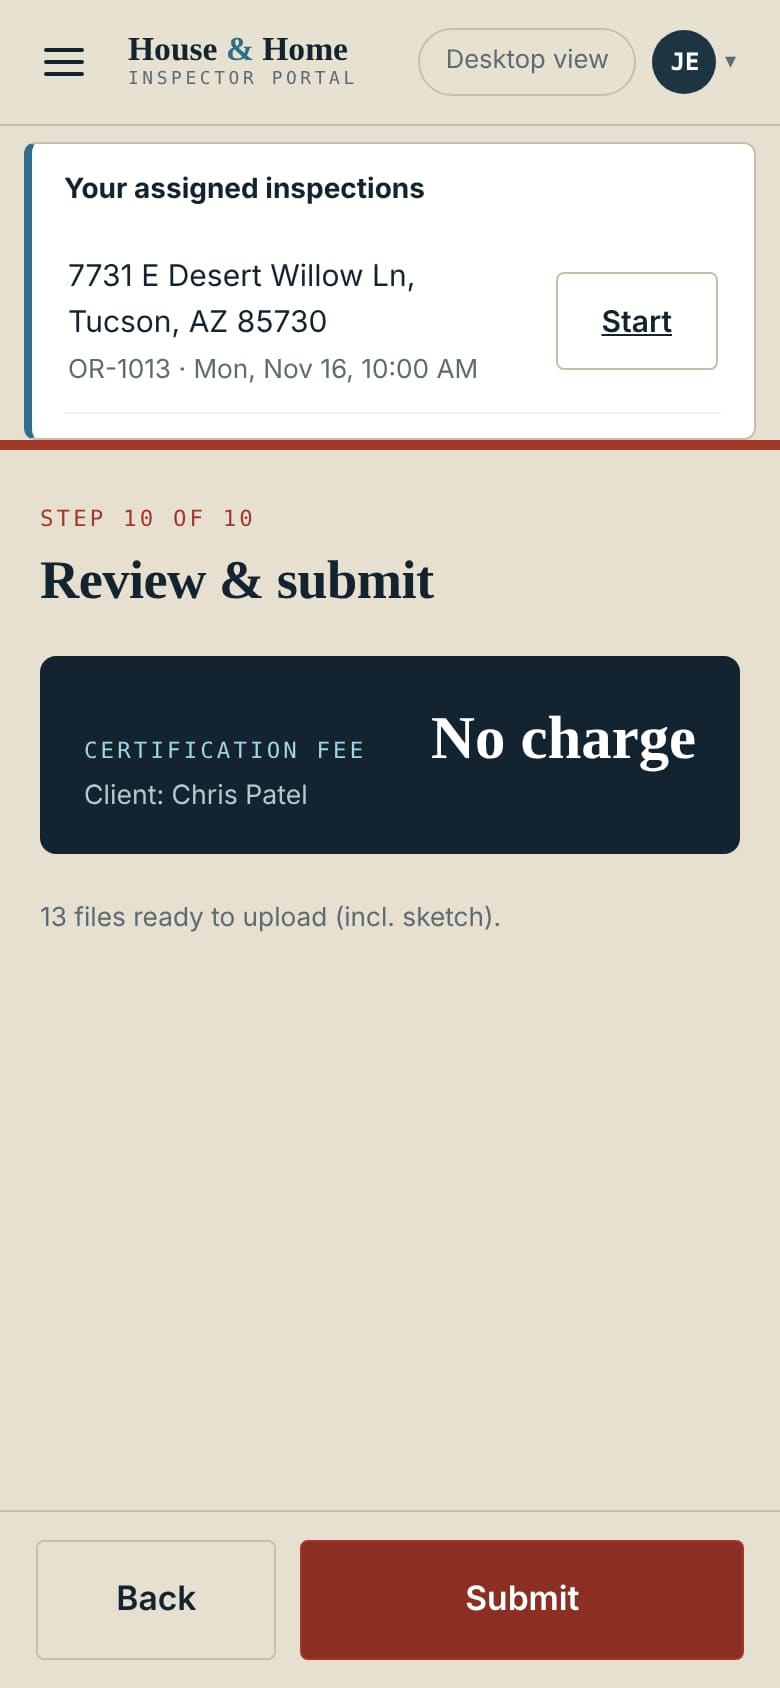
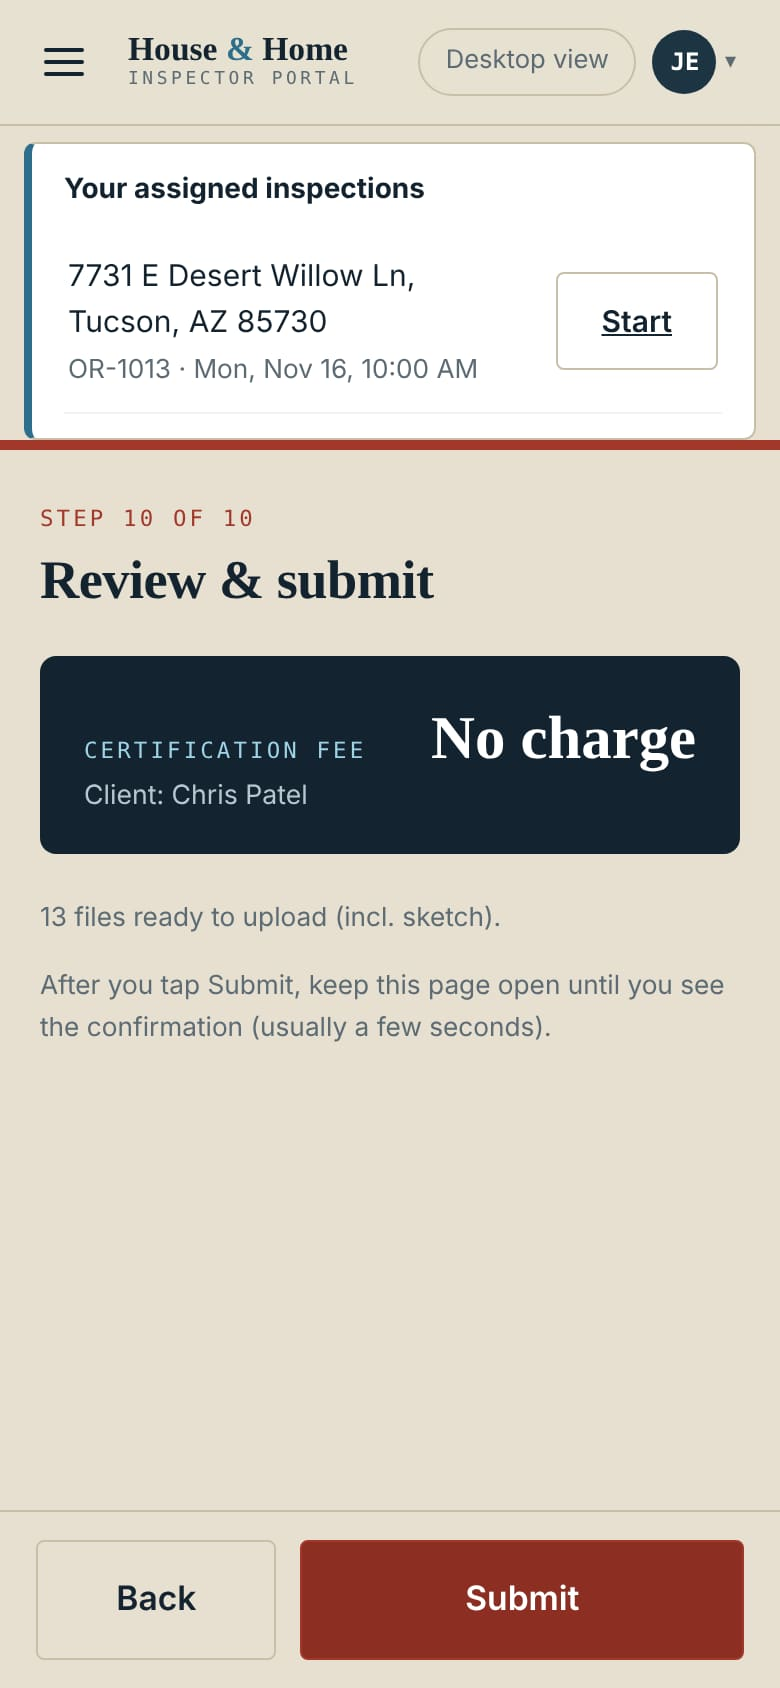
Bundle: owner-first invites, fresh Help screenshots, old website-import code removed
- People → Invite: picking a company with no owner yet (or + New company)
  switches the role to Company owner, with a note; choosing Inspector shows
  a 'Make them the owner' nudge.
- Help: new screenshots of the sketch step, Review & submit and the admin
  menu; guide text for the sketch link, Practice job (demo) and owner-first
  invites.
- Removed the unused Gravity Forms import (lib/gravity.js, /api/orders/intake,
  /api/admin/orders/test, website sync button and API, ?form=&entry= on the
  thank-you page). The portal's own request form is unchanged.
- /api/health: drops the old GF_* checks; reports Stripe 'live' for
  restricted live keys (rk_live_) too.

Claude-Session: https://claude.ai/code/session_018NSqrGUwkjsmCNh4wUKBuk

Changed region(s): [[0.0615, 0.5545, 0.7077, 0.6161], [0.8923, 0.5545, 0.9231, 0.5853], [0.7692, 0.5545, 0.8, 0.5853]]

diff --git a/app/admin/people/page.js b/app/admin/people/page.js
@@ -26,6 +26,20 @@ export default function People() {
     fetch("/api/admin/people").then((r) => r.json()).then(apply).catch((e) => setErr(String(e)));
   }, []);
 
+  // A company with no active owner yet (or a brand-new one): the first person is usually its owner.
+  const needsOwner = (companyId) => {
+    if (companyId === "__new") return true;
+    const c = companies.find((x) => x.id === companyId);
+    if (!c || c.is_internal) return false;
+    return !(people || []).some((p) => p.company_id === companyId && p.role === "company_owner" && p.active);
+  };
+  const [roleTouched, setRoleTouched] = useState(false);
+  function pickCompany(e) {
+    const companyId = e.target.value;
+    setForm((f) => ({ ...f, companyId, ...(!roleTouched && needsOwner(companyId) ? { role: "company_owner" } : {}) }));
+  }
+  const ownerHint = !STAFF.includes(form.role) && form.companyId && needsOwner(form.companyId);
+
   async function invite(e) {
     e.preventDefault();
     setBusy(true); setMsg(""); setErr("");
@@ -37,7 +51,7 @@ export default function People() {
     if (apply(d)) {
       setMsg(d.emailed ? `Invited ${form.email} and sent them a welcome email.`
         : `Added ${form.email}. The welcome email didn't send, so tell them to sign in at this portal with their email.`);
-      setForm(BLANK);
+      setForm(BLANK); setRoleTouched(false);
     }
   }
 
@@ -66,14 +80,14 @@ export default function People() {
               <div className="field"><label htmlFor="fullName">Full name</label>
                 <input id="fullName" value={form.fullName} onChange={set("fullName")} /></div>
               <div className="field"><label htmlFor="role">Role</label>
-                <select id="role" value={form.role} onChange={set("role")}>
+                <select id="role" value={form.role} onChange={(e) => { setRoleTouched(true); set("role")(e); }}>
                   <option value="inspector">Inspector</option>
                   <option value="company_owner">Company owner</option>
                   <option value="engineer">Engineer (reviews and certifies jobs)</option>
                   <option value="admin">Admin (House &amp; Home staff)</option>
                 </select></div>
               <div className="field"><label htmlFor="companyId" className={STAFF.includes(form.role) ? "" : "req"}>Company</label>
-                <select id="companyId" value={form.companyId} onChange={set("companyId")}>
+                <select id="companyId" value={form.companyId} onChange={pickCompany}>
                   <option value="">{STAFF.includes(form.role) ? "None" : "Choose a company"}</option>
                   {companies.map((c) => <option key={c.id} value={c.id}>{c.name}{c.is_internal ? " (House & Home)" : ""}</option>)}
                   <option value="__new">+ New company…</option>
@@ -83,6 +97,10 @@ export default function People() {
                   <input id="newCompany" value={form.newCompany} onChange={set("newCompany")} placeholder="e.g. StarCrest Inspections" /></div>
               )}
             </div>
+            {ownerHint && (form.role === "company_owner"
+              ? <p className="hint" style={{ marginTop: 0 }}>This company has no owner yet, so they'll be its <b>owner</b>: they set up billing and invite their own inspectors. They can still submit jobs themselves.</p>
+              : <p className="warnbox" style={{ marginTop: 0 }}>This company has no owner yet. The first person is usually the owner (sets up billing, invites the team, and can still inspect).{" "}
+                  <button type="button" className="linklike" onClick={() => setForm((f) => ({ ...f, role: "company_owner" }))}>Make them the owner</button></p>)}
             {err && <p className="err">{err}</p>}
             {msg && <p className="ok-msg">{msg}</p>}
             <button className="btn" type="submit" disabled={busy}>{busy ? "Inviting…" : "Send invite"}</button>

diff --git a/lib/helpGuides.js b/lib/helpGuides.js
@@ -36,7 +36,7 @@ export const GUIDES = [
           "Tap + Add structure for porches, decks, steps, carports and additions, then pick the size and which side it's on.",
           "To mark the drawing, tap a letter (B for beam, P for pier and so on), then tap the drawing everywhere it goes. Each tap drops another one. Tap a different letter to switch, Done when you're finished. Drag any tag to move it.",
           "Tap Save sketch. It's added to the report with the measurements and the letter key."],
-        tips: ["Prefer paper? Upload a photo of your hand drawing on the same step instead."],
+        tips: ["Prefer paper? Tap \"Prefer paper? Upload a photo of a hand drawing instead\" under the Draw button."],
         shots: [s("i-step8", "Home sketch step", true), s("i-sketch", "Sketch editor", true), s("i-sketch-tags", "Placing letter tags on the sketch", true)] },
       { title: "Add your photos",
         text: ["All 12 photo sections are on one page: scroll down and tap Add photos in each section. Add as many as you need; skip any that don't apply. The count at the top shows how many sections have photos.",
@@ -81,7 +81,8 @@ export const GUIDES = [
     intro: "Take in requests, schedule and assign inspectors, manage people and companies, and keep an eye on jobs and money.",
     steps: [
       { title: "The menu",
-        text: ["☰ (top left) has everything: Orders, Review queue, Submit a job, People, Statements, Reports, Companies, Engineers, Google & email and Help.",
+        text: ["☰ (top left) has everything: Orders, Review queue, Submit a job, Practice job (demo), People, Statements, Reports, Companies, Engineers, Google & email and Help.",
+          "Practice job (demo) opens the form with a Fill sample data button: try anything without charging anyone or emailing clients. Demo jobs are saved separately under _Demo Submissions.",
           "Your initials (top right) open View as: see the portal exactly as an inspector, owner or engineer would. Changes are turned off while previewing; tap Switch back when you're done."],
         shots: [s("a-menu", "Admin menu")] },
       { title: "Inspection requests come in",
@@ -96,7 +97,8 @@ export const GUIDES = [
         text: ["☰ → Review queue shows submitted jobs waiting for the engineer (Needs review / Under review), plus Certified and Delivered tabs. It refreshes every 15 minutes, or tap Refresh. Warnings about the engineer's license or stamp show at the top."],
         shots: [s("a-queue", "Review queue")] },
       { title: "People",
-        text: ["☰ → People: invite anyone (pick their role and company), change roles, or deactivate someone. Inspectors submit jobs; company owners also see their company's jobs and billing; engineers review and certify; admins see everything."],
+        text: ["☰ → People: invite anyone (pick their role and company), change roles, or deactivate someone. Inspectors submit jobs; company owners also see their company's jobs and billing; engineers review and certify; admins see everything.",
+          "Inviting the first person at a new company? The role switches to Company owner, since the owner sets up billing and invites the team (and can still inspect). Change it if they're only an inspector."],
         shots: [s("a-people", "People page")] },
       { title: "Companies and prices",
         text: ["☰ → Companies sets the default price for everyone. Open a company to: edit its name and details, upload its logo, set a custom price, choose how it pays (saved bank/card, or pay by card for each job), invite people straight into it, turn it off, and see its jobs, charges and statements."],

diff --git a/lib/orders.js b/lib/orders.js
@@ -1,55 +1,6 @@
-import { getEntry, recentEntries, mapEntry, allowedForms, gfEnabled } from "./gravity";
 import { sendEmail } from "./email";
 
 function esc(s) { return String(s || "").replace(/&/g, "&amp;").replace(/</g, "&lt;").replace(/>/g, "&gt;"); }
-
-// Create (or return) the order for one Gravity Forms entry. Safe to call repeatedly.
-export async function importEntry(db, formId, entryId, { origin, notify = true } = {}) {
-  formId = Number(formId); entryId = Number(entryId);
-  if (!allowedForms().includes(formId)) throw new Error("That form isn't connected to the portal.");
-  const { data: existing } = await db.from("orders").select("ref, id").eq("source_form_id", formId).eq("source_entry_id", entryId).maybeSingle();
-  if (existing) return { ...existing, created: false };
-
-  const entry = await getEntry(entryId);
-  if (Number(entry.form_id) !== formId) throw new Error("Entry doesn't belong to that form.");
-  return createOrderFromEntry(db, entry, { origin, notify });
-}
-
-// Create (or return) the order for an entry we already have (sent by the website, or fetched).
-export async function createOrderFromEntry(db, entry, { origin, notify = true } = {}) {
-  const formId = Number(entry.form_id), entryId = Number(entry.id);
-  const { data: existing } = await db.from("orders").select("ref, id").eq("source_form_id", formId).eq("source_entry_id", entryId).maybeSingle();
-  if (existing) return { ...existing, created: false };
-  const row = mapEntry(entry);
-  const { data, error } = await db.from("orders").insert(row).select("id, ref, property_address, inspection_detail, requester").single();
-  if (error) {
-    if (/duplicate|unique/i.test(error.message)) {
-      const { data: again } = await db.from("orders").select("ref, id").eq("source_form_id", formId).eq("source_entry_id", entryId).single();
-      return { ...again, created: false };
-    }
-    throw error;
-  }
-  if (notify) await alertOrder(db, data, origin).catch((e) => console.error("order alert failed", e.message));
-  return { ...data, created: true };
-}
-
-// Pull recent entries from every connected form (catches any whose redirect never happened).
-export async function syncOrders(db, { origin } = {}) {
-  if (!gfEnabled()) throw new Error("Gravity Forms isn't connected yet.");
-  let created = 0, seen = 0, skipped = 0;
-  const forms = allowedForms();
-  if (!forms.length) throw new Error("No forms are connected (GF_FORM_IDS is empty).");
-  for (const formId of forms) {
-    const entries = await recentEntries(formId, 25);
-    for (const e of entries) {
-      if (e.status && e.status !== "active") { skipped++; continue; } // spam/trash
-      seen++;
-      const r = await importEntry(db, formId, e.id, { origin });
-      if (r.created) created++;
-    }
-  }
-  return { seen, created, skipped, forms };
-}
 
 export async function alertOrder(db, order, origin) {
   let to = (process.env.ORDER_ALERT_EMAILS || process.env.REVIEW_ALERT_EMAILS || "").split(",").map((s) => s.trim()).filter(Boolean);

diff --git a/app/api/health/route.js b/app/api/health/route.js
@@ -22,19 +22,12 @@ export async function GET() {
       EMAIL_FROM: has("EMAIL_FROM"),
       ANTHROPIC_API_KEY: has("ANTHROPIC_API_KEY"),
       GMAIL_CONNECTED: Boolean(await import("../../../lib/gmail").then((m) => m.getGmailSender()).catch(() => null)),
-      GF_SITE_URL: has("GF_SITE_URL"),
-      GF_CONSUMER_KEY: has("GF_CONSUMER_KEY"),
-      GF_CONSUMER_SECRET: has("GF_CONSUMER_SECRET"),
-      GF_FORM_IDS: has("GF_FORM_IDS"),
       CRON_SECRET: has("CRON_SECRET"),
-      ORDER_INTAKE_SECRET: has("ORDER_INTAKE_SECRET"),
     },
     // Not secret (Google shows it in every sign-in link); helps match it to the OAuth client in Google Cloud.
     googleClientId: process.env.GOOGLE_OAUTH_CLIENT_ID ? String(process.env.GOOGLE_OAUTH_CLIENT_ID).trim() : null,
     googleClientIdHasSpaces: /\s/.test(String(process.env.GOOGLE_OAUTH_CLIENT_ID || "")),
-    stripeMode: String(process.env.STRIPE_SECRET_KEY || "").startsWith("sk_live_") ? "live" : process.env.STRIPE_SECRET_KEY ? "test" : "off",
-    gfFormIds: { raw: JSON.stringify(process.env.GF_FORM_IDS ?? null), parsed: String(process.env.GF_FORM_IDS || "").split(",").map((x) => Number(x.trim())).filter(Boolean) },
-    gfSettingNames: Object.keys(process.env).filter((k) => /^GF|GRAVITY/i.test(k)).sort(),
+    stripeMode: /^(sk|rk)_live_/.test(String(process.env.STRIPE_SECRET_KEY || "")) ? "live" : process.env.STRIPE_SECRET_KEY ? "test" : "off",
     supabaseUrlLooksRight: /^https:\/\/[a-z0-9]+\.supabase\.co\/?$/.test(url.trim()),
     // Names of any Supabase-ish settings, to catch typos (names only).
     supabaseSettingNames: Object.keys(process.env).filter((k) => /SUPA/i.test(k)).sort(),

diff --git a/app/request/received/page.js b/app/request/received/page.js
@@ -1,29 +1,12 @@
-import { createAdminClient } from "../../../lib/supabase/server";
-import { importEntry } from "../../../lib/orders";
-import { headers } from "next/headers";
 
 export const dynamic = "force-dynamic";
-export const maxDuration = 60;
 export const metadata = { title: "Request received | House & Home" };
 
-// Gravity Forms sends the requester here after they submit (confirmation → Redirect).
-// /request/received?form=2&entry=123 → creates the order and thanks them. Public page.
+// Thank-you page after the portal request form: /request/received?ref=OR-1234. Public page.
 export default async function RequestReceived({ searchParams }) {
-  const form = Number(searchParams && searchParams.form), entry = Number(searchParams && searchParams.entry);
   let order = null;
   const ref = String((searchParams && searchParams.ref) || "");
   if (/^OR-\d{3,7}$/.test(ref)) order = { ref };
-  if (form && entry) {
-    const db = createAdminClient();
-    const h = headers();
-    const origin = `${h.get("x-forwarded-proto") || "https"}://${h.get("host")}`;
-    if (db) {
-      const { data: sent } = await db.from("orders").select("ref").eq("source_form_id", form).eq("source_entry_id", entry).maybeSingle();
-      if (sent) order = sent;
-      else try { order = await importEntry(db, form, entry, { origin }); }
-      catch (e) { console.error("order import failed", form, entry, e.message); }
-    }
-  }
   return (
     <>
       <header><div className="bar">

diff --git a/lib/requestIntake.js b/lib/requestIntake.js
@@ -1,4 +1,3 @@
-import { mapInspectionType } from "./gravity";
 import { sendEmail } from "./email";
 
 import { MAIN_TYPES, FOUNDATION_TYPES, CONVENTIONAL_TYPES } from "./requestOptions";
@@ -88,4 +87,18 @@ export async function sendRequestConfirmation(order) {
       <p>Thank you again for using House and Home and we look forward to working with you.</p>
       <p style="color:#5c6b74;font-size:13px"><em>Do not reply to this email. If you need to contact us please call 520-599-7798.</em></p></div>`,
   });
+}
+
+// Website form's type answers → the portal's inspection type.
+export function mapInspectionType(main, foundation, conventional) {
+  if (/^Foundation/i.test(main)) {
+    if (/Porches/i.test(foundation)) return { type: "Porches & Additions", detail: foundation };
+    if (["FHA", "VA", "USDA"].includes(foundation)) return { type: foundation, detail: foundation };
+    return { type: "FHA", detail: main };
+  }
+  if (/^Conventional/i.test(main)) {
+    if (/^Porches and additions only$/i.test(conventional)) return { type: "Porches & Additions", detail: `Conventional - ${conventional}` };
+    return { type: "Conventional", detail: conventional ? `Conventional - ${conventional}` : "Conventional loan" };
+  }
+  return { type: "Unknown", detail: main || "" }; // "Other" text
 }

diff --git a/app/api/admin/orders/route.js b/app/api/admin/orders/route.js
@@ -1,26 +1,11 @@
 import { NextResponse } from "next/server";
 import { requireUser, createAdminClient } from "../../../../lib/supabase/server";
-import { syncOrders } from "../../../../lib/orders";
 import { sendEmail } from "../../../../lib/email";
 
 export const runtime = "nodejs";
 export const maxDuration = 60;
 
 function esc(s) { return String(s || "").replace(/&/g, "&amp;").replace(/</g, "&lt;").replace(/>/g, "&gt;"); }
-
-// POST: check the website form for new requests.
-export async function POST(req) {
-  const auth = await requireUser(["admin"]);
-  if (auth.error) return auth.error;
-  const db = createAdminClient();
-  if (!db) return NextResponse.json({ ok: false, error: "Database isn't configured." }, { status: 500 });
-  try {
-    const r = await syncOrders(db, { origin: new URL(req.url).origin });
-    return NextResponse.json({ ok: true, ...r });
-  } catch (err) {
-    return NextResponse.json({ ok: false, error: err.message }, { status: 400 });
-  }
-}
 
 // PATCH: schedule / assign / status / notes / ISN number. Body: { ref, scheduledAt?, inspectorId?, status?, notes?, isnNumber?, notifyInspector? }
 export async function PATCH(req) {

diff --git a/app/globals.css b/app/globals.css
@@ -399,3 +399,4 @@ html.embedded .shell { padding-top: 8px; padding-bottom: 24px; }
 .sk-launch-big:active{transform:scale(.99)}
 .linklike{background:none;border:0;padding:0;color:var(--steel);text-decoration:underline;cursor:pointer;font:inherit;font-size:.95rem}
 .sk-launch-big svg{flex:0 0 38px;width:38px;height:38px}
+.warnbox{background:#fff6dc;border:1px solid #e9cf86;color:#5a4410;padding:9px 12px;border-radius:6px;font-size:.93rem}

diff --git a/README.md b/README.md
@@ -117,7 +117,6 @@ Enforced in middleware, in each page/route, and by row-level security.
 | `RESEND_API_KEY`, `EMAIL_FROM` | no | Fallback email when Gmail isn't connected |
 | `PAYMENT_REQUIRED` | no | `true` = jobs from companies with no payment method go on hold |
 | `NEXT_PUBLIC_CERT_FEE` | no | Fallback fee in dollars before the default price is set (default 135) |
-| `GF_*`, `ORDER_INTAKE_SECRET` | no | Old Gravity Forms import, no longer used; can be removed |
 
 ### Cron (vercel.json)
 - `/api/cron/daily` (15:41 UTC): PE license expiry warnings; deletes unclaimed early uploads after 14 days.
@@ -178,7 +177,7 @@ app/
   tracker/                      older Drive-based tracker (admins only)
   api/
     auth/send-code, auth/verify-code    sign-in codes
-    requests, orders/*                  request form intake; orders, prefill, distance check
+    requests, orders/*                  request form; order prefill and distance check
     submit, submit/finalize, upload, upload/early, upload/claim   jobs and photos
     photos/check                        Claude photo checks
     admin/*                             people, companies, submissions (review actions), engineer,
